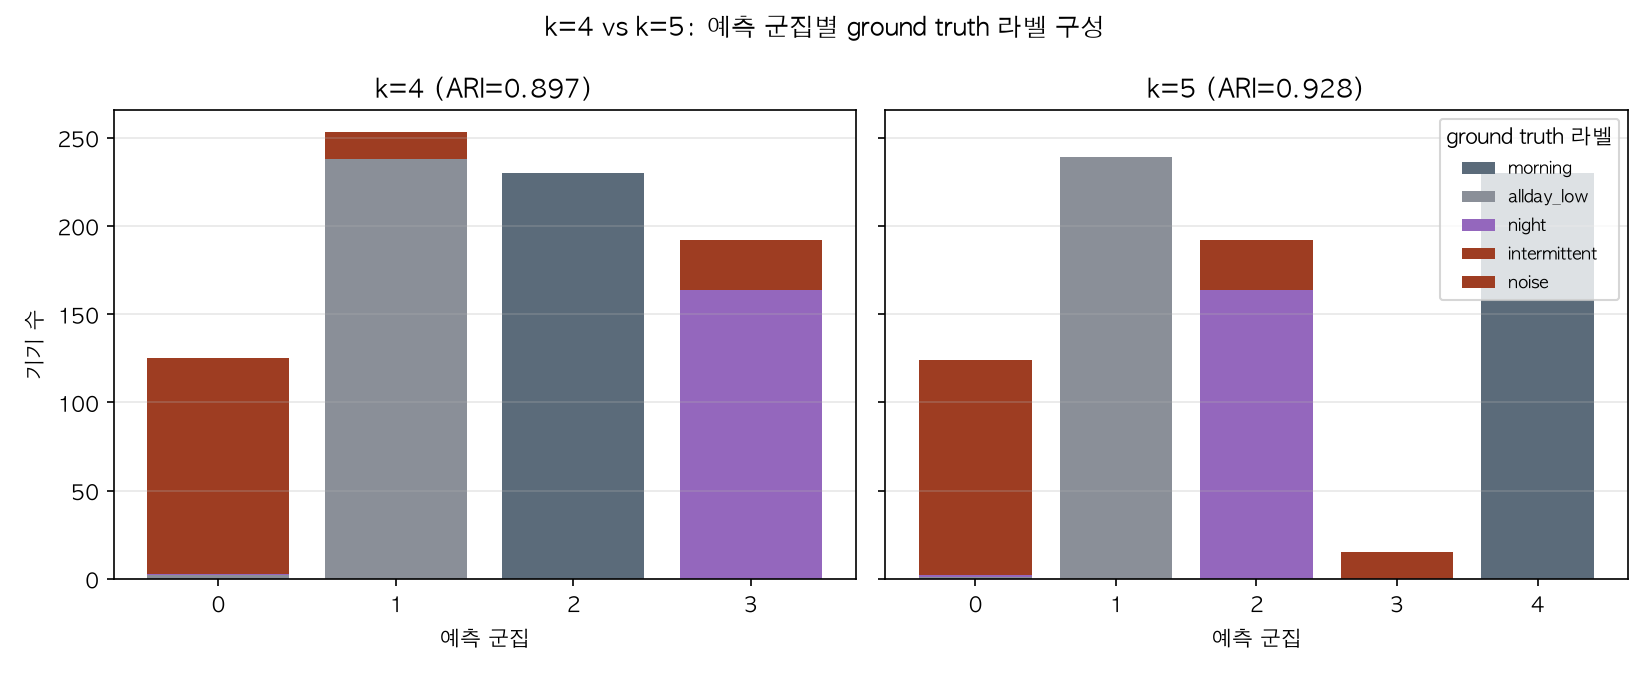
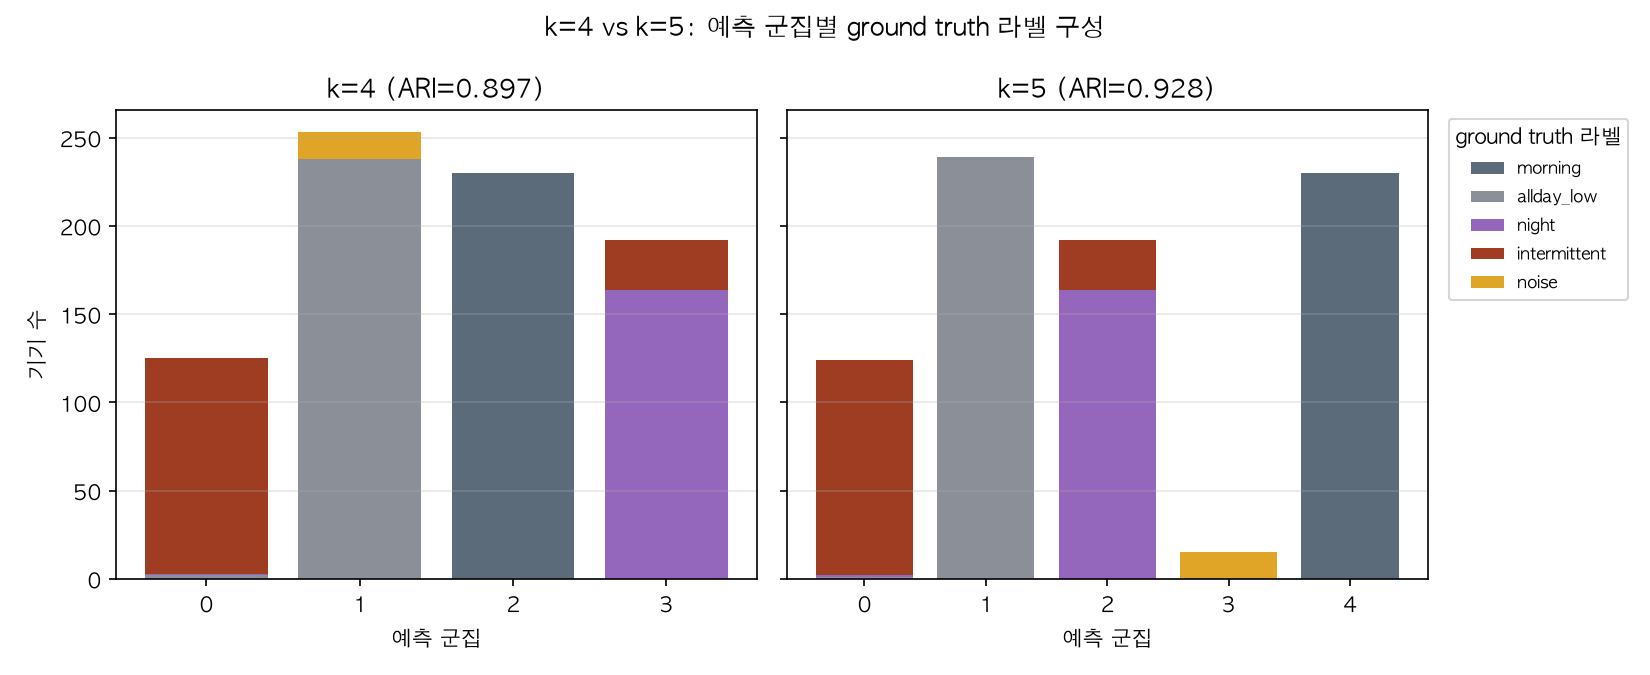
usage: fig6 noise 색 분리와 범례 위치, readme 랜덤 표현 정정

diff --git a/usage-pattern-clustering/scripts/04_select_k.py b/usage-pattern-clustering/scripts/04_select_k.py
@@ -103,7 +103,7 @@ LABEL_COLORS = {
     "allday_low": "#8A8F98",
     "night": "tab:purple",
     "intermittent": "#9E3D22",
-    "noise": "#9E3D22",
+    "noise": "#E0A526",
 }
 
 fig, axes = plt.subplots(1, 2, figsize=(11, 4.5), sharey=True)
@@ -120,7 +120,7 @@ for ax, k in zip(axes, (4, 5)):
     ax.set_xticks(comp.index)
     ax.grid(alpha=0.3, axis="y")
 axes[0].set_ylabel("기기 수")
-axes[1].legend(title="ground truth 라벨", fontsize=8, loc="upper right")
+axes[1].legend(title="ground truth 라벨", fontsize=8, loc="upper left", bbox_to_anchor=(1.02, 1))
 fig.suptitle("k=4 vs k=5: 예측 군집별 ground truth 라벨 구성")
 fig.tight_layout()
 fig.savefig(fig_dir / "fig6_k4_vs_k5.png", dpi=150)

diff --git a/usage-pattern-clustering/scripts/05_profile_clusters.py b/usage-pattern-clustering/scripts/05_profile_clusters.py
@@ -95,7 +95,7 @@ for i in range(K):
 fig.colorbar(im, ax=ax_hm, label="평균 z-score", shrink=0.85)
 ax_hm.set_title("군집별 평균 z-score")
 
-CLUSTER_COLORS = ["#9E3D22", "#8A8F98", "tab:purple", "#9E3D22", "#5B6B7A"]
+CLUSTER_COLORS = ["#9E3D22", "#8A8F98", "tab:purple", "#E0A526", "#5B6B7A"]
 for c in order:
     prof = hourly_mean[pred == c].mean(axis=0)
     ax_prof.plot(np.arange(24), prof, lw=2.2, color=CLUSTER_COLORS[c], label=f"군집 {c}: {LABELS[c].split(': ')[0]}")

diff --git a/usage-pattern-clustering/README.md b/usage-pattern-clustering/README.md
@@ -23,11 +23,9 @@ for s in scripts/0*.py; do .venv/bin/python "$s"; done
 | 04 | k=2~10 sweep (inertia, silhouette, ARI), k=4 vs 5 대조 | `k_sweep.csv`, `k_composition.csv`, `fig5~6` |
 | 05 | 최종 군집 (k=5) z-score 프로파일과 비즈니스 라벨 | `cluster_zscore.csv`, `cluster_labels.csv`, `fig7` |
 
-`scaling_compare.csv`의 방법 열은 03의 문자열 그대로.
-
 ## 시도 순서와 숫자
 
-- 02: ARI 0.238, 사실상 랜덤. 분산 비율 99.8%는 거리 계산을 total_usage 한 열이 다 정했다는 뜻
+- 02: ARI 0.238, 군집이 total_usage 구간으로 갈림. 분산 비율 99.8%는 거리 계산을 total_usage 한 열이 다 정했다는 뜻
 - 03: ARI 0.723 (표준화만), 0.897 (log1p + 표준화). 로그 변환이 낫지만 노이즈 15대가 allday_low에 흡수됨 (순도 6%)
 - 04: k=5에서 silhouette 0.412, ARI 0.928. 지표가 고른 k와 정답 k가 같고 노이즈 15대가 독립 군집으로 돌아옴
 
@@ -35,7 +33,7 @@ for s in scripts/0*.py; do .venv/bin/python "$s"; done
 
 `usage_profiles.csv` 800행 x 171열. `device_id`(D0000~D0799), `u_{dow}_h{HH}` 168열 (요일 x 시각 평균 사용 강도, 0~10), `total_usage`(0~5000, 셀 합 x 3.5 + noise), `true_cluster`(morning / allday_low / night / intermittent / noise). ground truth 열은 평가 전용이고 클러스터링 입력에 안 들어간다.
 
-세그멘테이션 시리즈 2편은 이 폴더의 생성기를 그대로 복사해 쓴다. 01을 고치면 여기 pipeline 전체를 다시 돌려야 함.
+01을 고치면 여기 pipeline 전체를 다시 돌려야 함.
 
 ## 넣은 구조
 
